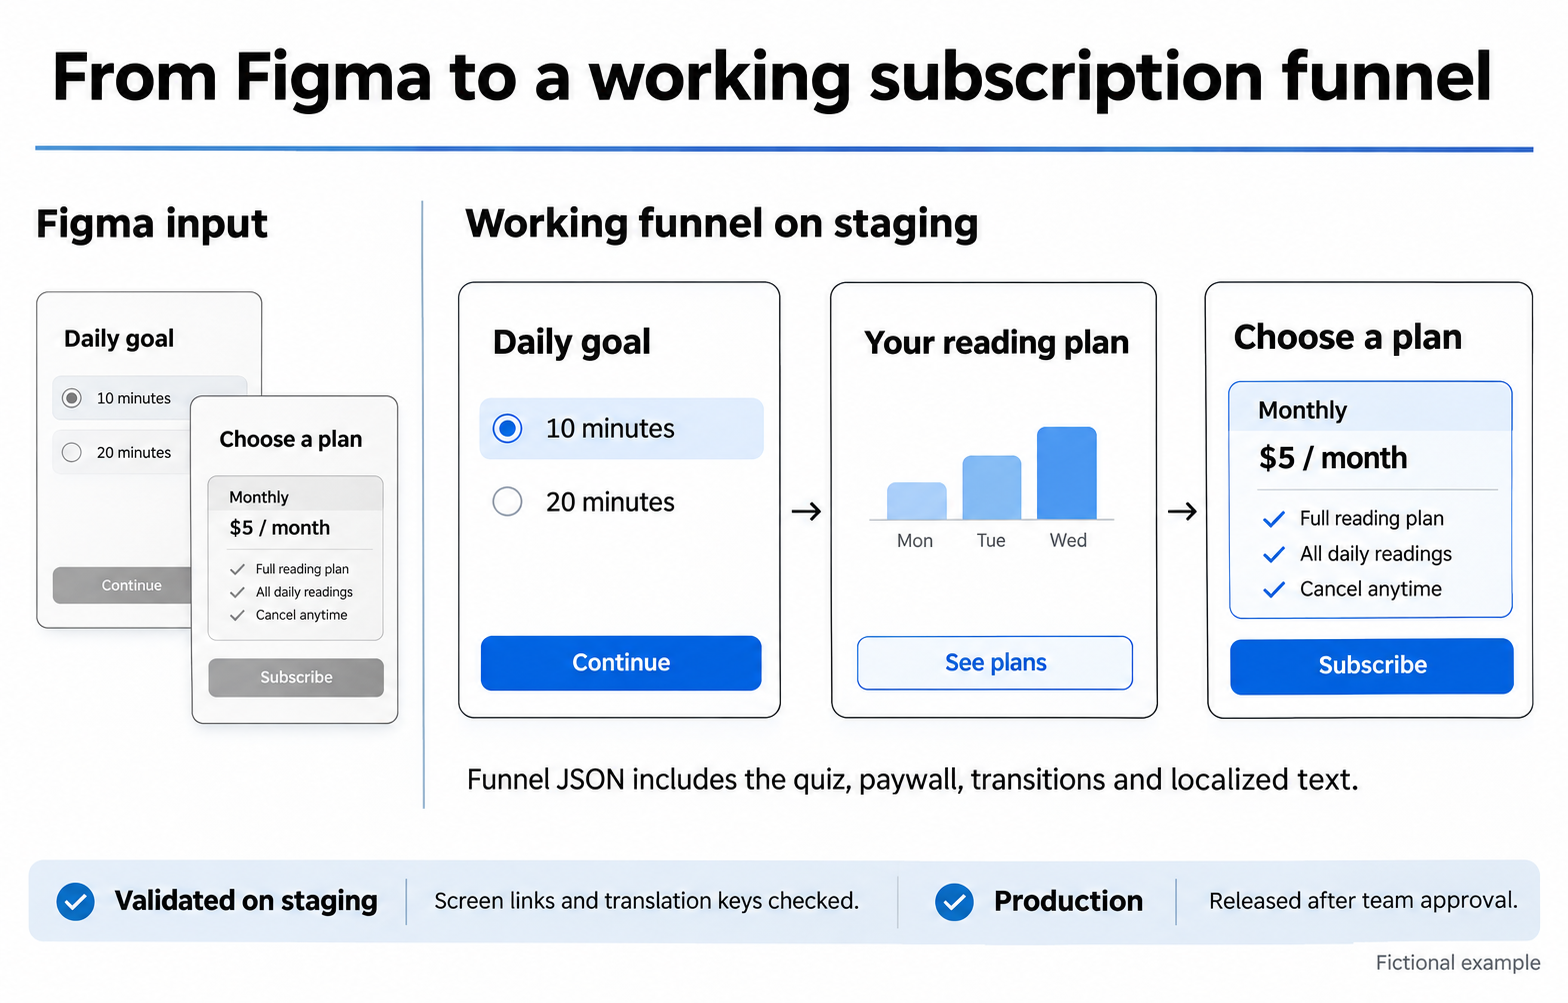
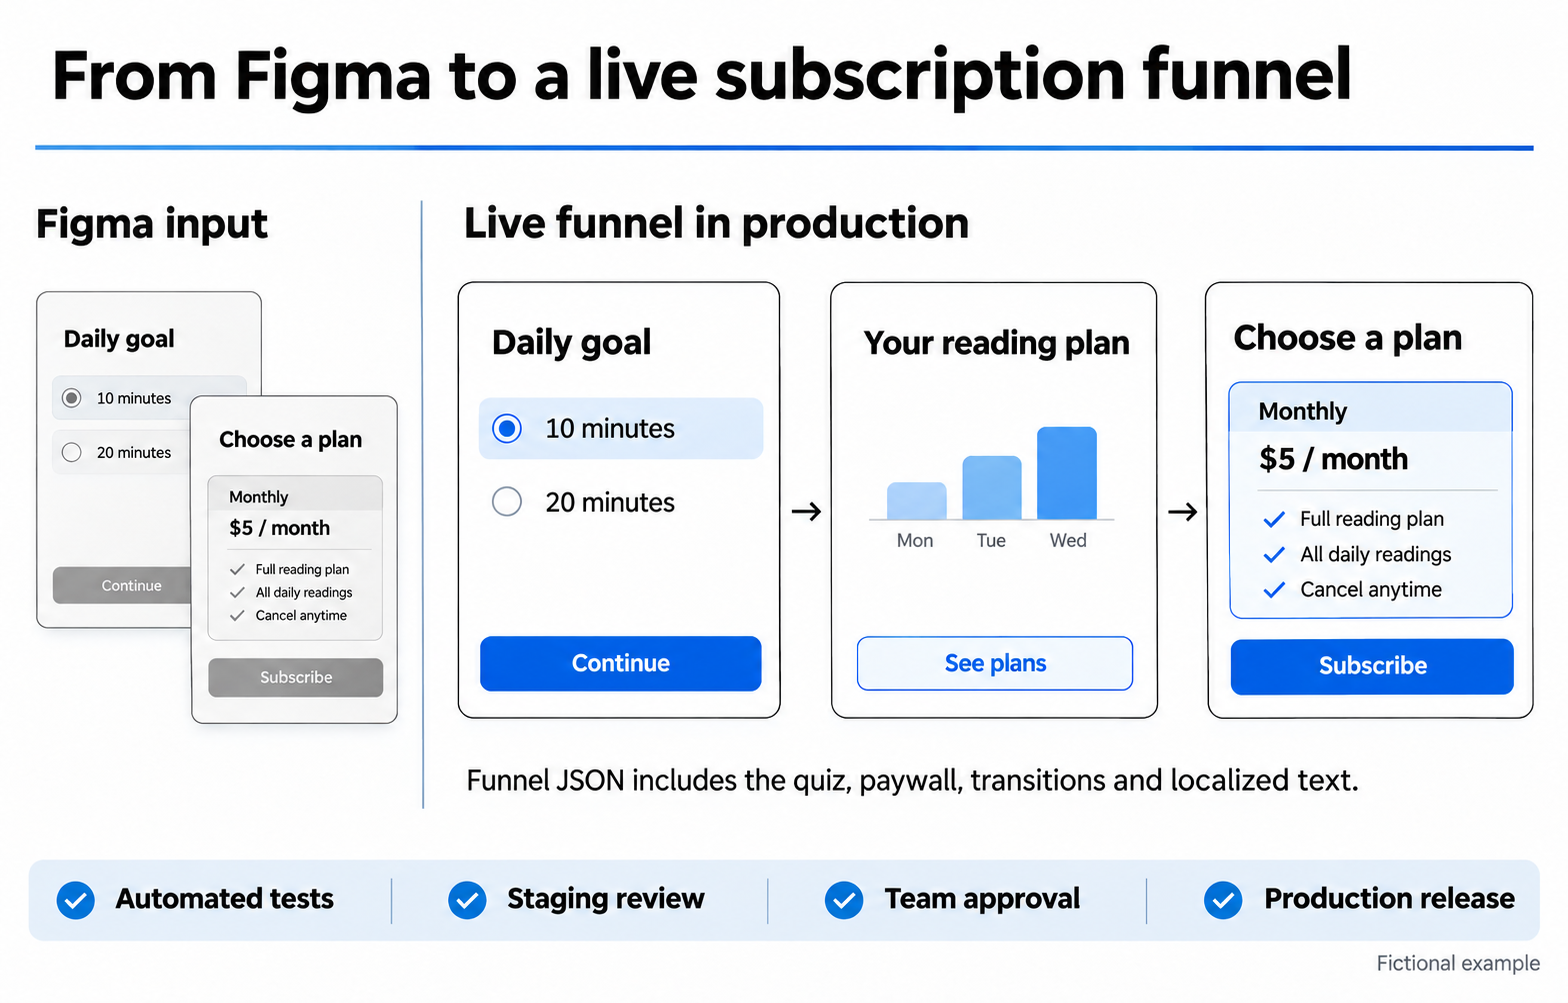
Show the production funnel and the checks before release

diff --git a/CASES.md b/CASES.md
@@ -8,11 +8,11 @@
 
 ## Як команда Growth будувала воронки за макетами Figma
 
-Я побудувала MCP-платформу, якою Growth-команда щодня користувалась для створення й оновлення воронок підписки. За макетом із Figma агент генерував готову воронку у форматі JSON: збирав екрани квізу й пейволи та зв’язував переходи. На тестовому середовищі команда могла пройти всю воронку так, як її пройде користувач, і погодити запуск у продакшн.
+Я побудувала MCP-платформу, якою Growth-команда щодня користувалась для створення й оновлення воронок підписки. За макетом із Figma агент генерував готову воронку у форматі JSON: збирав екрани квізу й пейволи та зв’язував переходи. Після автотестів команда проходила воронку на стейджингу, погоджувала реліз і запускала її в продакшн.
 
-![Вигаданий приклад: із макета у Figma зібрано робочу воронку. Користувач обирає щоденну ціль, бачить план читання й переходить до підписки. Перед запуском перевіряються переходи та ключі перекладу.](funnel-example.png)
+![Вигаданий приклад воронки у продакшні. Користувач обирає щоденну ціль, бачить план читання й переходить до підписки. Від макета у Figma до релізу воронка проходить автотести, перевірку на стейджингу й погодження команди.](funnel-example.png)
 
-**Що я перевіряла.** Кожен перехід має вести до наявного екрана. Перед записом у продакшн команда могла переглянути результат у тестовому середовищі й погодити його. Окремо я зробила модуль локалізації, який зберігав ціни та динамічні значення під час перекладу.
+**Що я перевіряла.** Автотести перевіряли, чи кожен перехід веде до наявного екрана і чи є відповідні ключі перекладу. Окремо я зробила модуль локалізації, який зберігав ціни та динамічні значення під час перекладу.
 
 <a id="search"></a>
 

diff --git a/README.md b/README.md
@@ -6,9 +6,9 @@ At OBRIO (Genesis), I built a platform for creating subscription funnels, a sear
 
 ## Building subscription funnels from Figma with AI agents
 
-I built an MCP platform the growth team used daily to turn Figma designs into working subscription funnels. The agent generated the funnel JSON, built quiz screens and paywalls, and wired up navigation. The team could open the working funnel on staging, test the user journey and approve its release to production.
+I built an MCP platform the growth team used daily to turn Figma designs into working subscription funnels. The agent generated the funnel JSON, built quiz screens and paywalls, and wired up navigation. Automated tests checked screen transitions and translation keys. The growth team then walked through the funnel on staging, approved it and released it to production.
 
-![Fictional reading subscription. The Figma design becomes a working funnel on staging: choose a daily goal, see a reading plan, then open the subscription paywall. Screen transitions and translation keys are checked before release.](funnel-example.png)
+![Fictional reading subscription. The live funnel lets readers choose a daily goal, view their reading plan and open the paywall. The release path runs from Figma through automated tests, staging review and team approval to production.](funnel-example.png)
 
 I also built localization into the platform so the team could reuse reviewed translations across funnels.
 
